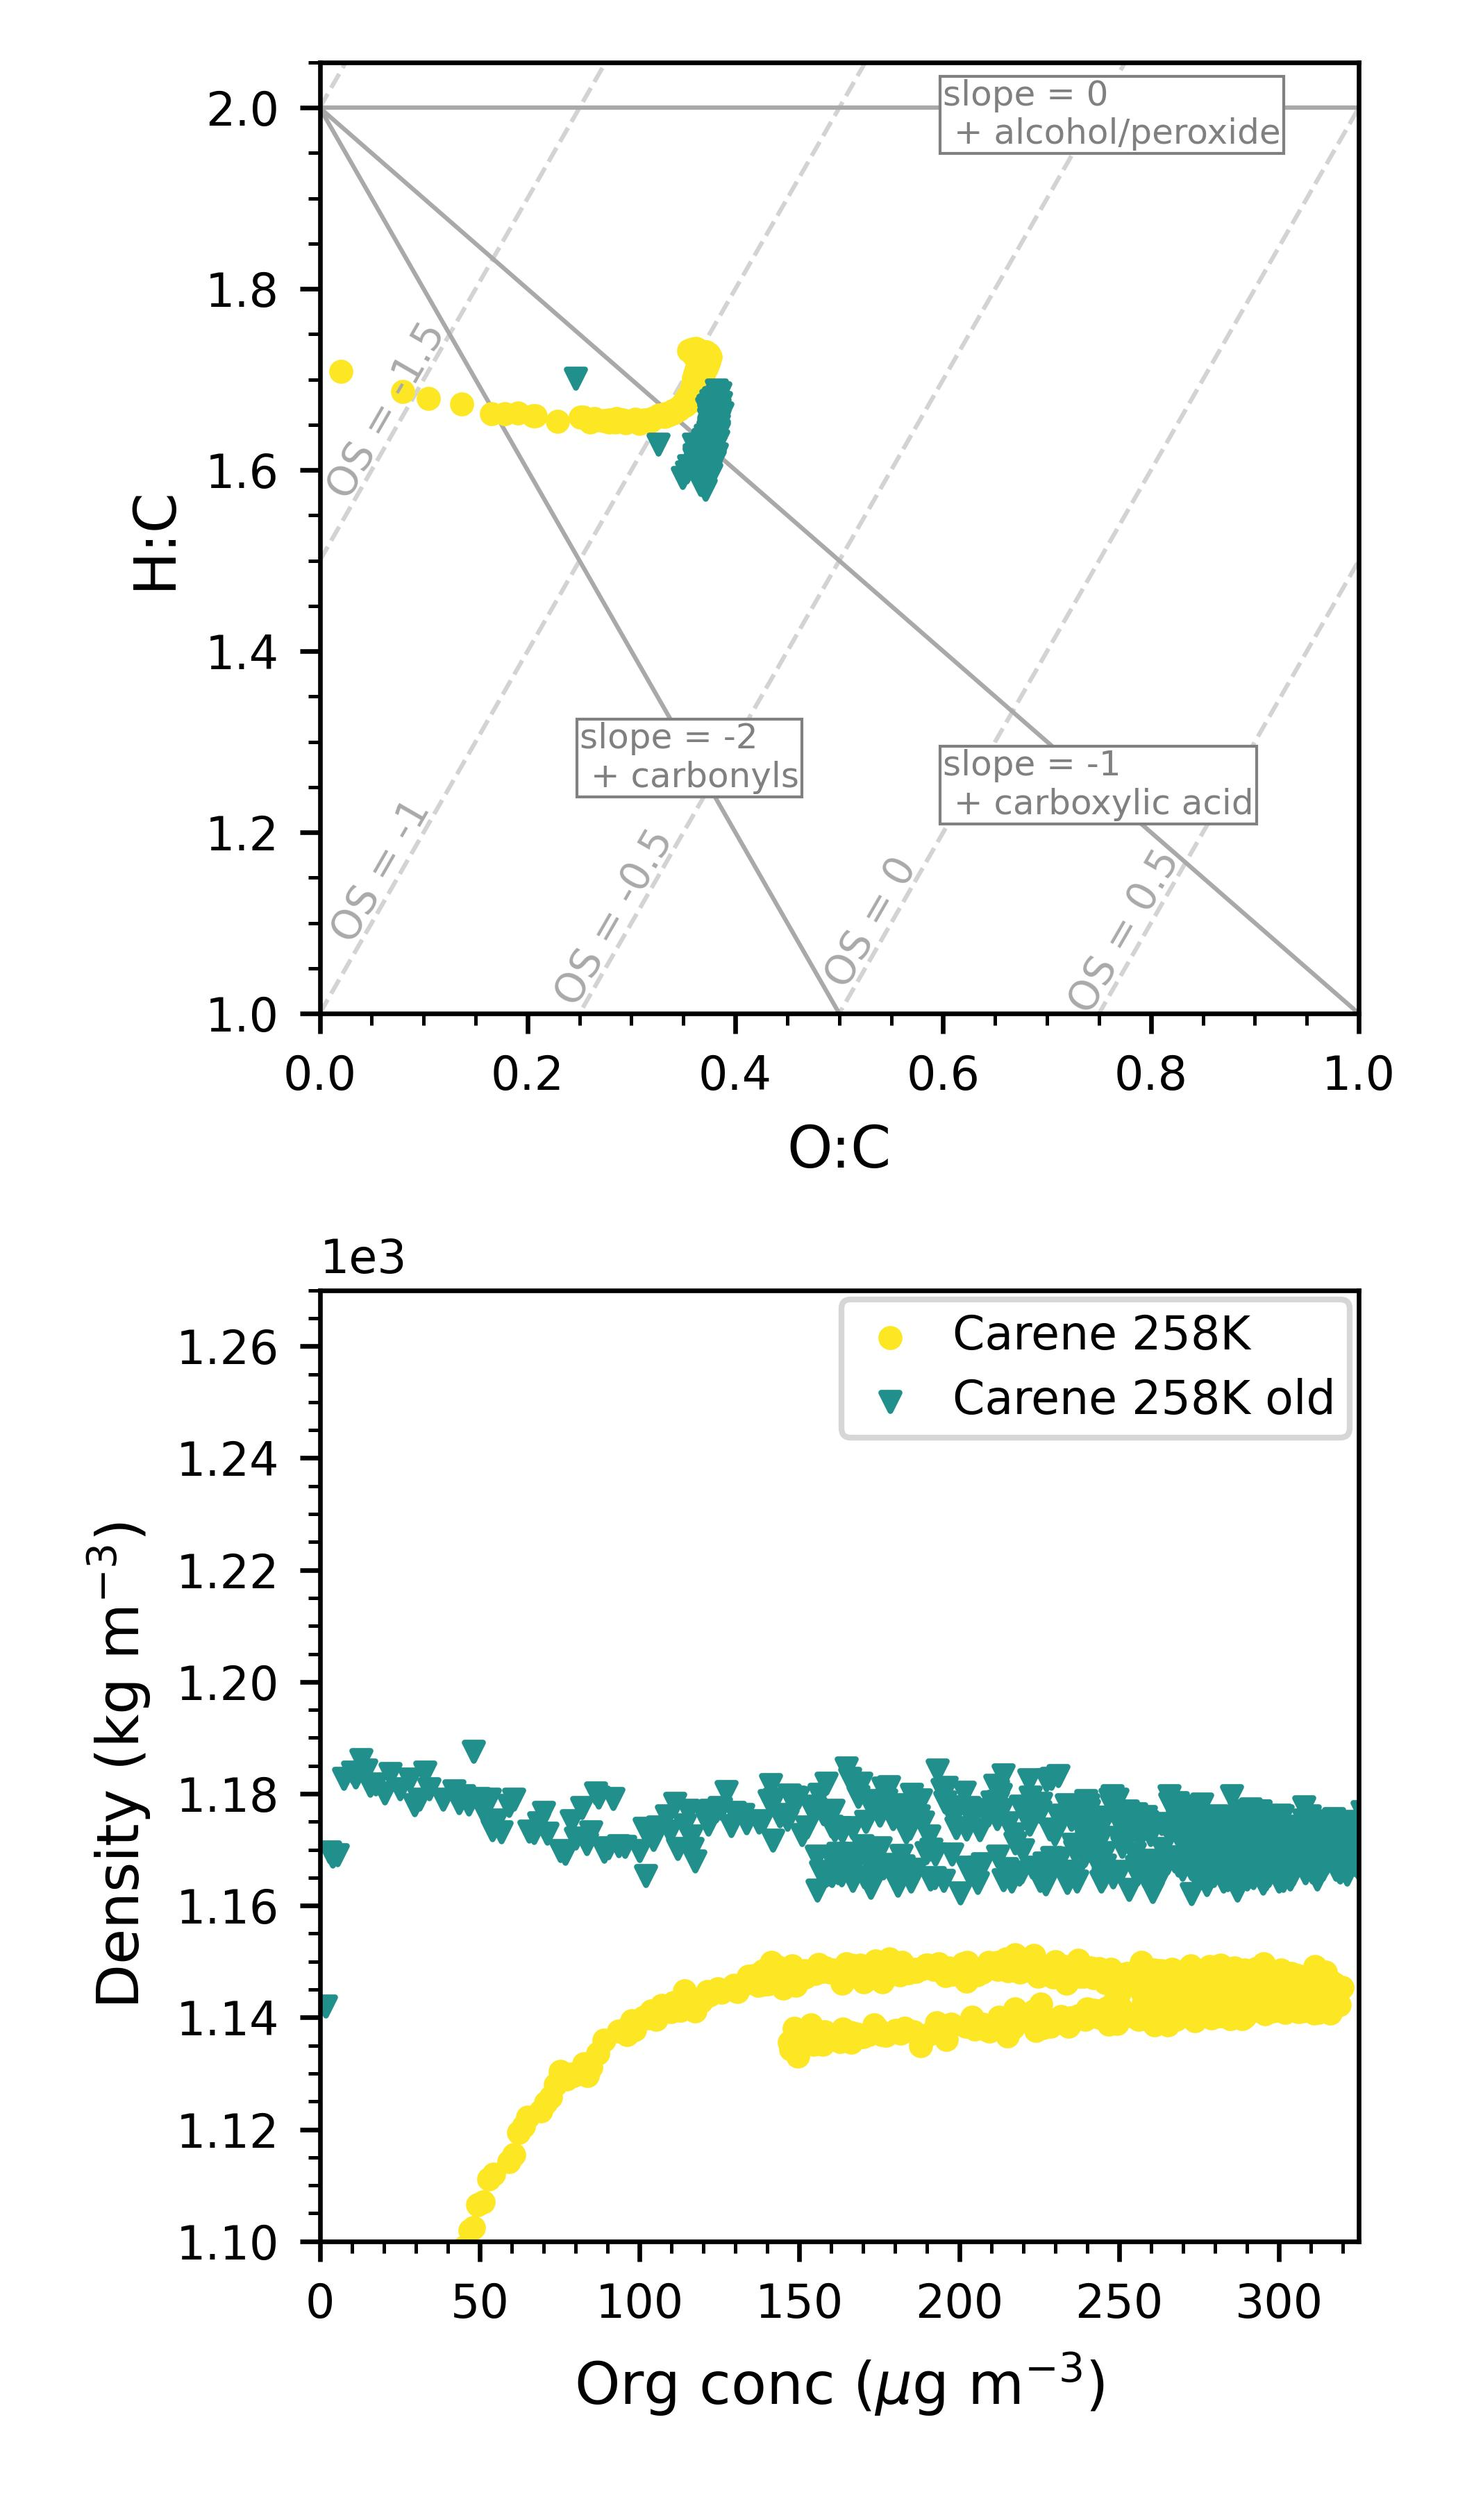
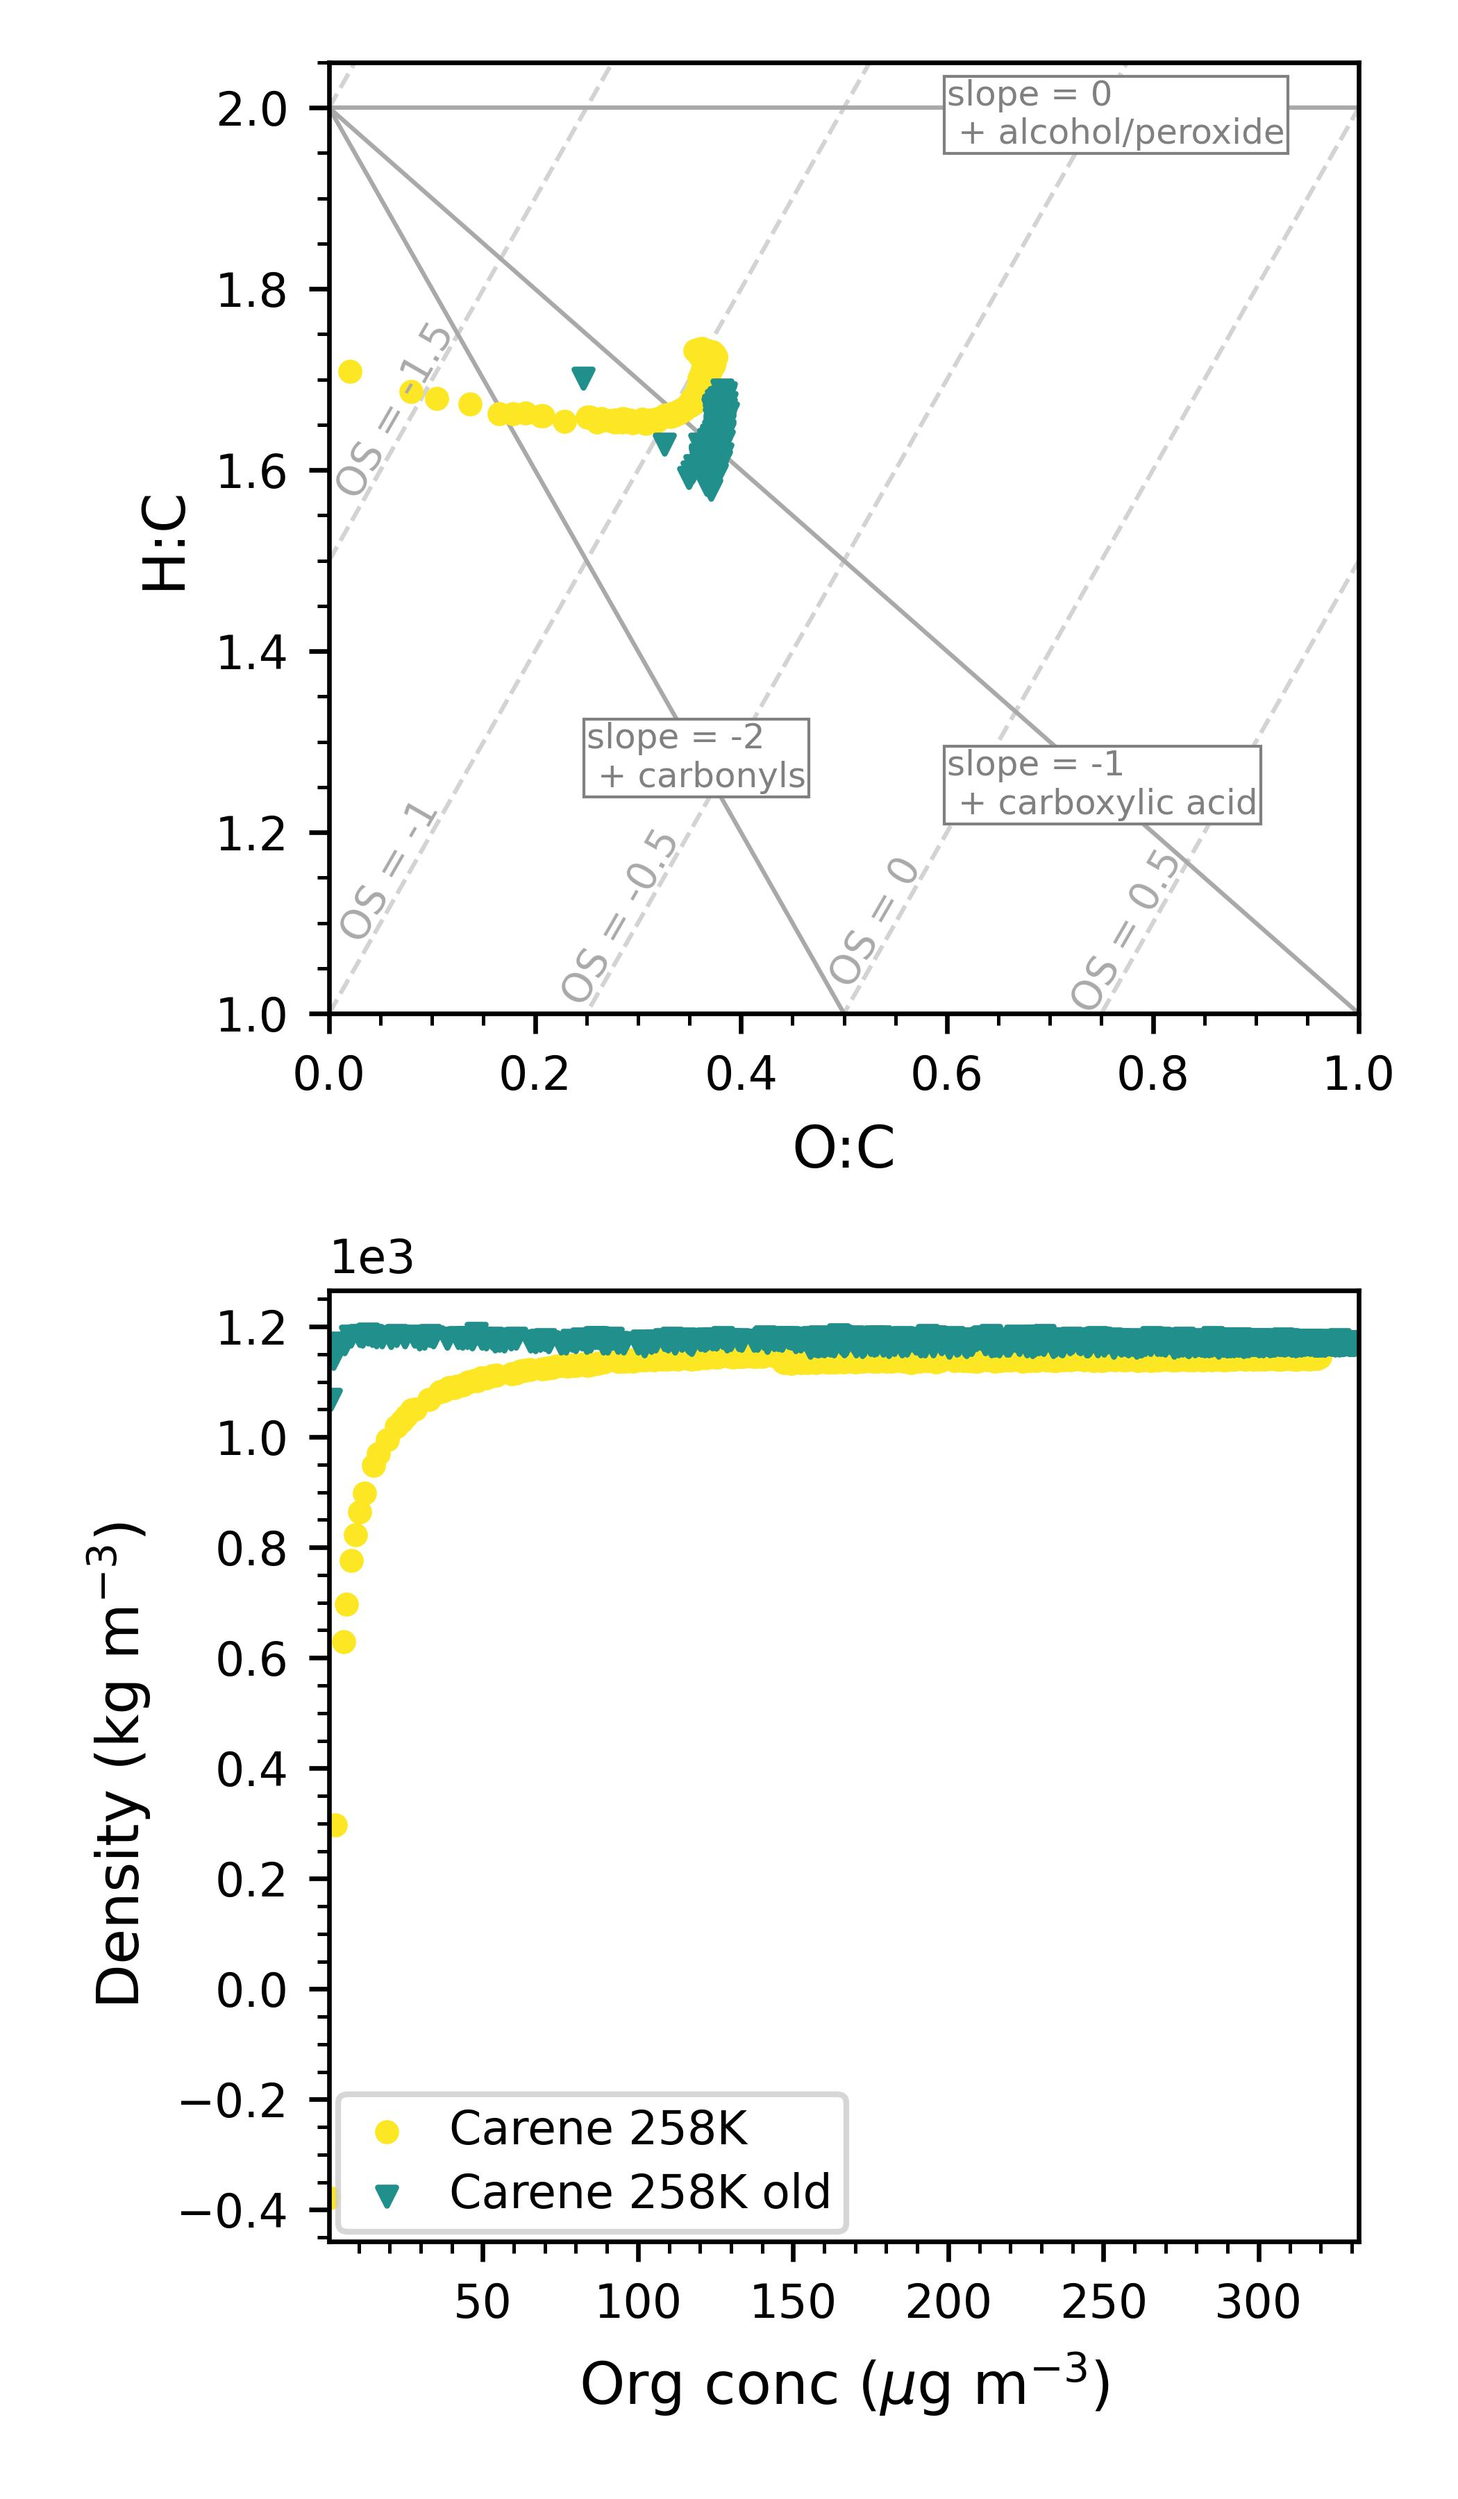
Update

diff --git a/plot_functions.py b/plot_functions.py
@@ -447,6 +447,6 @@ def vanKrevelen_multi_exp(ax, data_dict, dict_keys, df_keys, timestamps, labels)
 
     ax[1].legend(labels = labels, fontsize = 8, frameon = True)   #, bbox_to_anchor = (1, 0, 0, 1))
     vanKrevelen_OS(ax[0], 60)
-    ax[1].set(xlabel = 'Org conc ($\mu$g m$^{-3}$)', ylabel = 'Density (kg m$^{-3}$)', xlim = (0, 325), ylim = (1.1*10**3, 1.27*10**3))
+    ax[1].set(xlabel = 'Org conc ($\mu$g m$^{-3}$)', ylabel = 'Density (kg m$^{-3}$)')
 
     return ax
